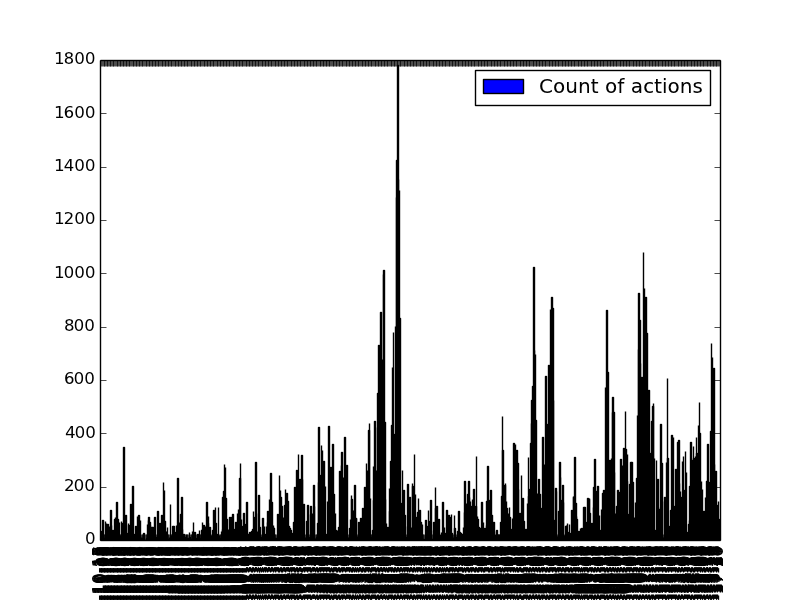
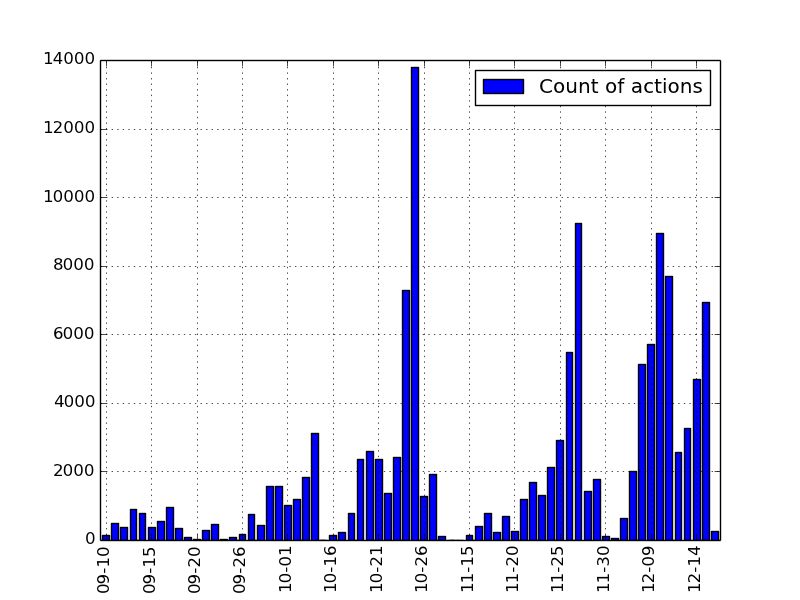
updated code to skip xticks

diff --git a/rad416/Assignment5/problem2.py b/rad416/Assignment5/problem2.py
@@ -7,22 +7,24 @@ from _collections import defaultdict
 actionsFile = open('actions-fall-2007.dat','r')
 next(actionsFile) #dump the header
 
-actionsList = []
+timebinsDaysDict = defaultdict(int)
+
 for line in actionsFile:
-    actionsList.append(parse(line.rstrip()))
+    date = parse(line.rstrip())
+    timebinsDaysDict[date.strftime('%m-%d')] += 1
 actionsFile.close()
 
-timebinsHoursDict = defaultdict(int)
+timeBinsDaysDF = pd.DataFrame.from_dict(timebinsDaysDict,orient='index')
+timeBinsDaysDF.columns = ['Count of actions']
 
-for t in actionsList:
-    timebinsHoursDict[t.strftime('%m-%d-%H')] += 1
+timeBinsDaysDF = timeBinsDaysDF.sort()
 
-timeBinsHoursDF = pd.DataFrame.from_dict(timebinsHoursDict,orient='index')
-timeBinsHoursDF.columns = ['Count of actions']
-del timebinsHoursDict
+n=5
 
-timeBinsHoursDF = timeBinsHoursDF.sort()
-
-actionsplot = timeBinsHoursDF.plot(kind='bar',grid='off')
+ax = timeBinsDaysDF.plot(kind='bar')
+ticks = ax.xaxis.get_ticklocs()
+ticklabels = [l.get_text() for l in ax.xaxis.get_ticklabels()]
+ax.xaxis.set_ticks(ticks[::n])
+ax.xaxis.set_ticklabels(ticklabels[::n])
 
 plt.savefig('Problem_2.png')
